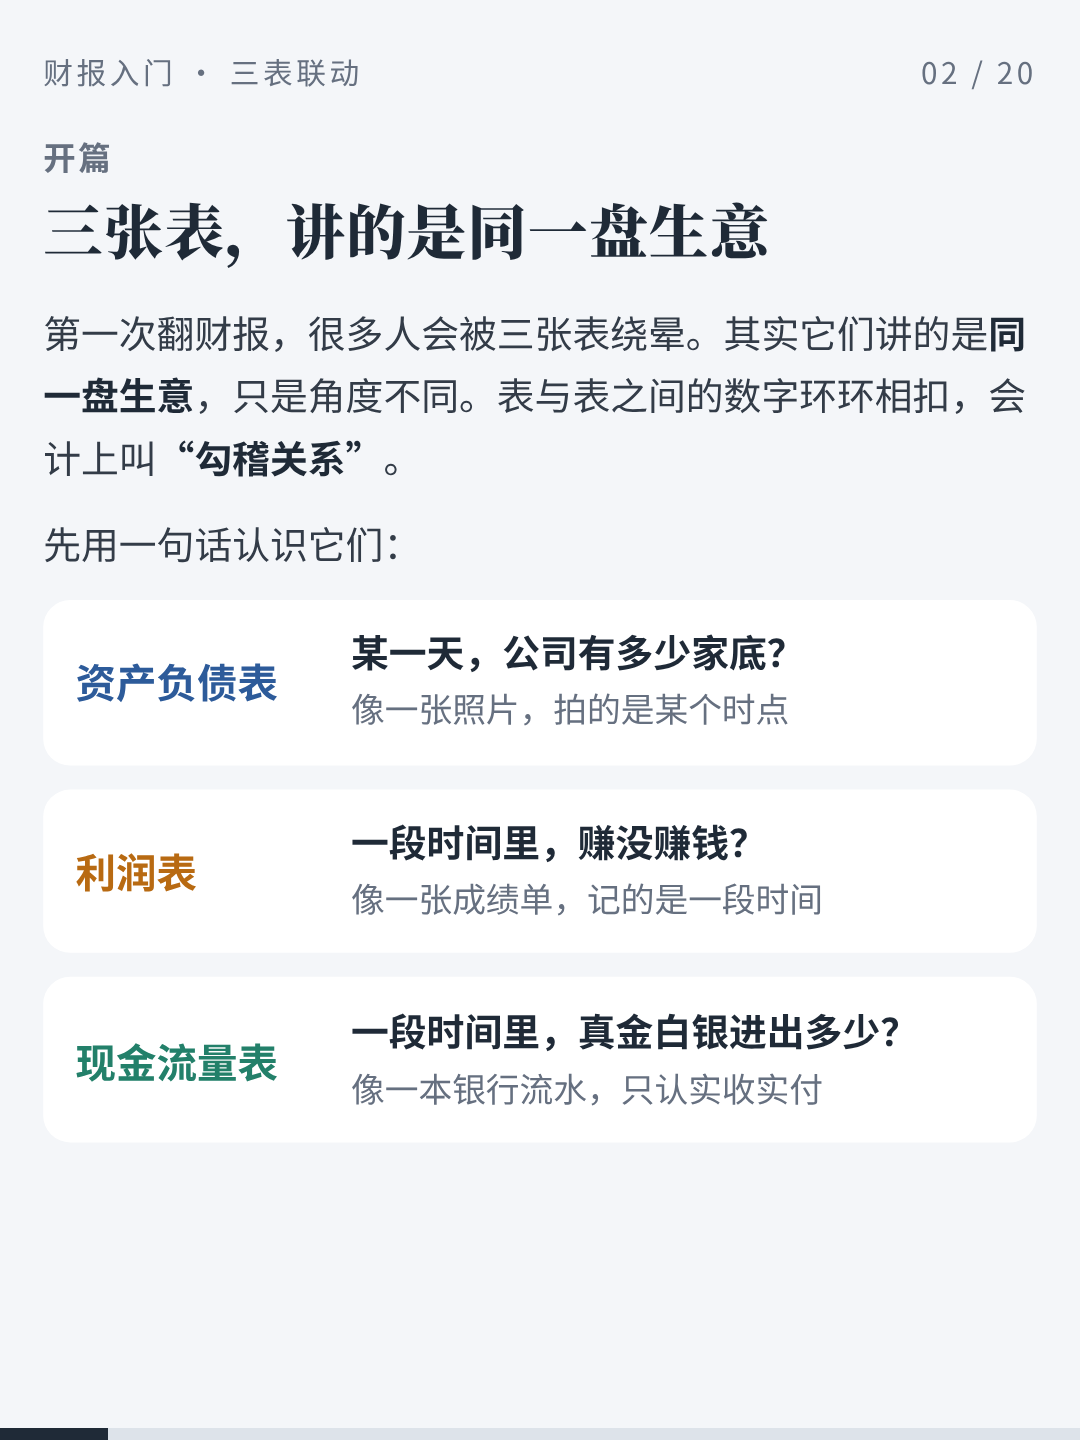
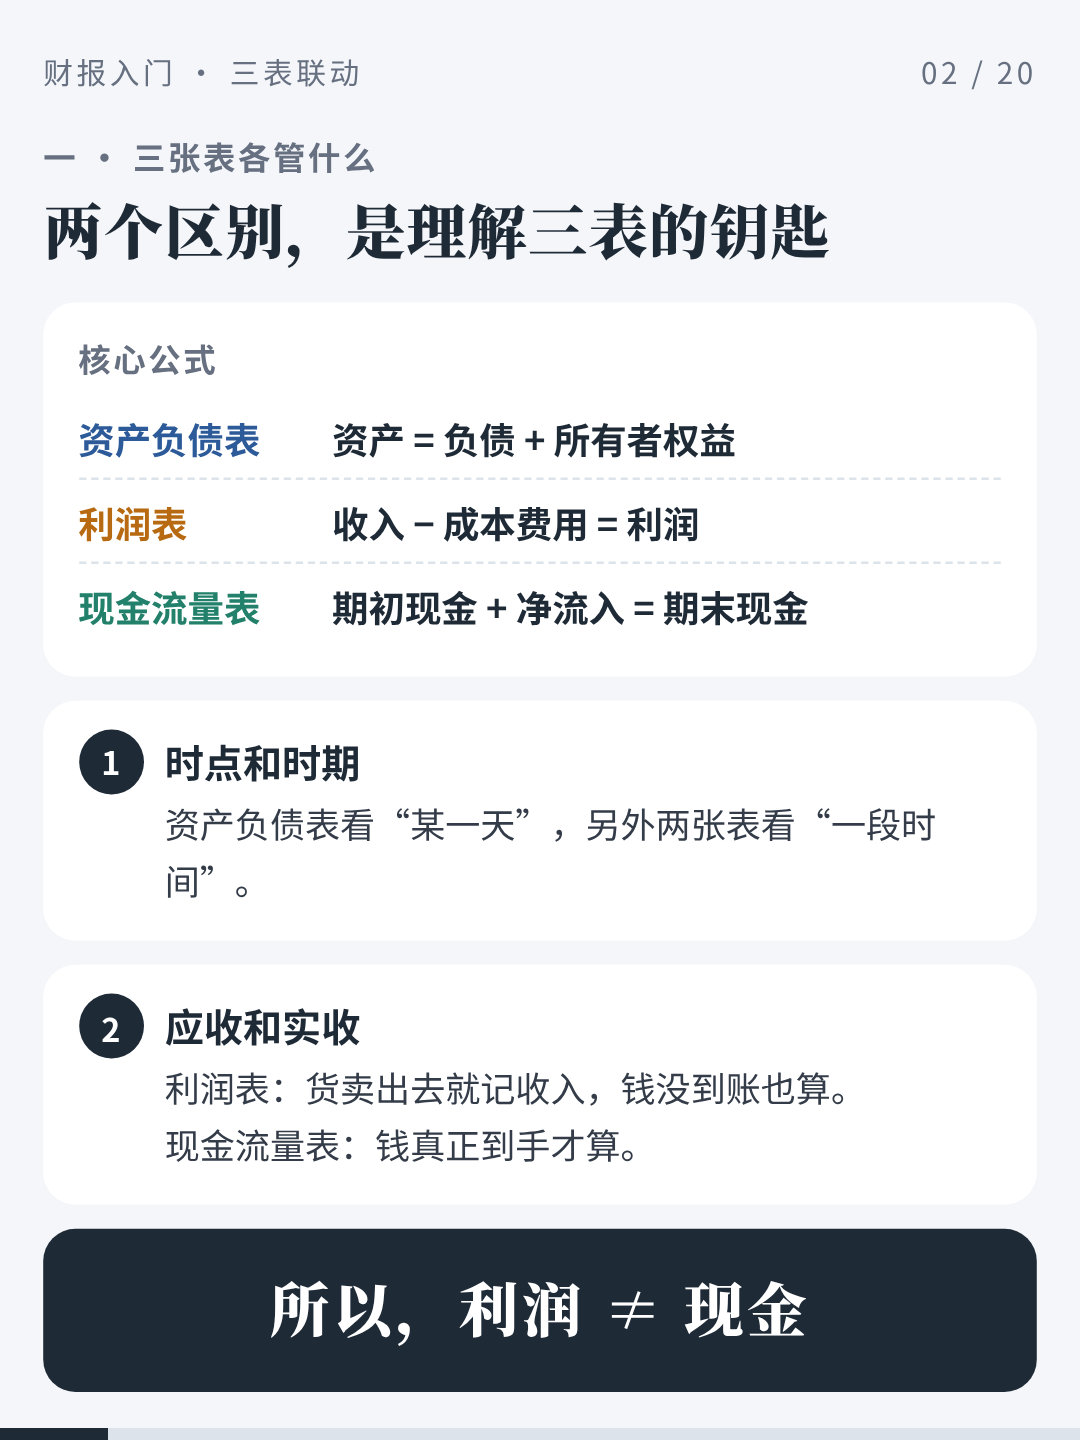
Merge cover into opening page of the image version
Fold the standalone cover into page one as a dark hero band above the
statement introductions, so the first image still works as the feed
cover. Use the freed slot to give the full net-income-to-cash bridge
room of its own and to restore the reading guide for that bridge; the
closing page also regains the 'same story' summary.

Claude-Session: https://claude.ai/code/session_01B7iRdbtxAstcUruayp8mSL

diff --git a/articles/three-statements/source/pages.html b/articles/three-statements/source/pages.html
@@ -56,23 +56,16 @@
   .flow .to { color: var(--muted); font-size: 13px; }
   .formula { background: var(--soft); border-radius: 8px; padding: 8px 10px; font-weight: 700; color: var(--ink); text-align: center; font-size: 14px; }
 
-  /* ---------- cover ---------- */
-  .cover { background: var(--ink); color: #FFFFFF; padding: 22px 22px 18px; }
-  .cover .top { color: #A9B4C2; }
-  .cover .prog { background: #33404F; }
-  .cover .prog i { background: #FFFFFF; }
-  .cover .eyebrow { margin-top: 48px; font-size: 13px; letter-spacing: 0.3em; color: #A9B4C2; }
-  .cover .big { font-family: var(--serif); font-weight: 900; font-size: 66px; line-height: 1.12; letter-spacing: 0.04em; margin: 8px 0 10px; }
-  .cover .sub { font-size: 17px; color: #DCE3EC; }
-  .cover .chips { display: flex; gap: 8px; margin-top: 18px; }
-  .cover .chips .chip { font-size: 13px; padding: 3px 11px; }
-  .cover .teaser { margin-top: auto; border: 1px solid #44505F; border-radius: 12px; padding: 13px 14px; }
-  .cover .teaser .q { font-family: var(--serif); font-weight: 900; font-size: 19px; line-height: 1.45; }
-  .cover .teaser .a { margin-top: 6px; font-size: 12.5px; color: #A9B4C2; }
-  .cover .motto { margin: 14px 0 10px; font-size: 13px; letter-spacing: 0.12em; color: #DCE3EC; }
+  /* ---------- page 1: dark hero band + opening ---------- */
+  .hero { margin: -18px -16px 14px; padding: 18px 18px 16px; background: var(--ink); color: #FFFFFF; }
+  .hero .top { color: #A9B4C2; }
+  .hero .eyebrow { margin-top: 12px; font-size: 12px; letter-spacing: 0.3em; color: #A9B4C2; }
+  .hero .big { font-family: var(--serif); font-weight: 900; font-size: 50px; line-height: 1.12; letter-spacing: 0.04em; margin: 4px 0 6px; }
+  .hero .sub { font-size: 16px; color: #DCE3EC; }
+  .hero .q { margin-top: 12px; padding-top: 10px; border-top: 1px solid #44505F; font-family: var(--serif); font-weight: 900; font-size: 17px; line-height: 1.5; }
 
-  /* ---------- statement rows (p2) ---------- */
-  .srow { display: grid; grid-template-columns: 92px 1fr; gap: 10px; align-items: center; background: var(--paper); border-radius: 10px; padding: 10px 12px; }
+  /* ---------- statement rows (p1) ---------- */
+  .srow { display: grid; grid-template-columns: 92px 1fr; gap: 10px; align-items: center; background: var(--paper); border-radius: 10px; padding: 8px 12px; }
   .srow .nm { font-weight: 700; font-size: 15px; }
   .srow .q { font-weight: 700; color: var(--ink); font-size: 14px; line-height: 1.45; }
   .srow .m { font-size: 12.5px; color: var(--muted); }
@@ -239,8 +232,21 @@
   .use li { font-size: 12.5px; line-height: 1.55; padding-left: 12px; position: relative; }
   .use li::before { content: ""; position: absolute; left: 0; top: 0.62em; width: 5px; height: 5px; border-radius: 50%; background: var(--minus); }
 
+  /* ---------- reading the bridge (p18) ---------- */
+  .read { background: var(--paper); border-radius: 12px; padding: 7px 13px; }
+  .read .h { display: flex; gap: 8px; align-items: center; font-weight: 700; color: var(--ink); font-size: 14.5px; }
+  .read .h .n { width: 22px; height: 22px; border-radius: 50%; background: var(--ink); color: #FFFFFF; font-size: 12px; display: grid; place-items: center; flex: none; }
+  .read .h .v { margin-left: auto; font-variant-numeric: tabular-nums; }
+  .read .h .v.p { color: var(--plus); } .read .h .v.m { color: var(--minus); }
+  .read p { font-size: 13px; margin-top: 2px; line-height: 1.6; }
+  .read.hot { border: 1.5px solid var(--minus); }
+
   /* ---------- summary (p20) ---------- */
-  .tri { background: var(--paper); border-radius: 12px; padding: 10px 8px 6px; }
+  .story { display: grid; grid-template-columns: repeat(3, 1fr); gap: 6px; text-align: center; }
+  .story div { display: grid; gap: 1px; }
+  .story b { font-size: 13px; }
+  .story span { font-size: 12.5px; color: var(--ink); }
+  .tri { background: var(--paper); border-radius: 12px; padding: 6px 8px 2px; }
   .tri svg { display: block; width: 100%; height: auto; }
   .tri svg text { font-family: var(--sans); }
   .mottos { display: grid; grid-template-columns: repeat(3, 1fr); gap: 6px; }
@@ -253,25 +259,16 @@
 </head>
 <body>
 
-<!-- 1 · cover -->
-<section class="page cover" data-sec="">
-  <div class="eyebrow">财报入门</div>
-  <div class="big">三表联动</div>
-  <div class="sub">一家奶茶店，讲透财报勾稽关系</div>
-  <div class="chips"><span class="chip bs">资产负债表</span><span class="chip is">利润表</span><span class="chip cf">现金流量表</span></div>
-  <div class="teaser">
+<!-- 1 · hero + opening (also the feed cover) -->
+<section class="page" data-sec="">
+  <div class="hero">
+    <div class="eyebrow">财报入门</div>
+    <div class="big">三表联动</div>
+    <div class="sub">一家奶茶店，讲透财报勾稽关系</div>
     <div class="q">奶茶店一年赚了 4 万利润，<br>现金为什么只多了 3 万？</div>
-    <div class="a">看懂这个问题，三张表就串起来了。</div>
   </div>
-  <div class="motto">利润进权益 · 现金对货币 · 变动解差异</div>
-</section>
-
-<!-- 2 -->
-<section class="page" data-sec="开篇">
-  <h2>三张表，讲的是同一盘生意</h2>
   <div class="body">
-    <p>第一次翻财报，很多人会被三张表绕晕。其实它们讲的是<b>同一盘生意</b>，只是角度不同。表与表之间的数字环环相扣，会计上叫<b>“勾稽关系”</b>。</p>
-    <p>先用一句话认识它们：</p>
+    <p>三张表讲的是<b>同一盘生意</b>，数字环环相扣，会计上叫<b style="white-space:nowrap">“勾稽关系”</b>。先用一句话认识它们：</p>
     <div class="srow"><div class="nm t-bs">资产负债表</div><div><div class="q">某一天，公司有多少家底？</div><div class="m">像一张照片，拍的是某个时点</div></div></div>
     <div class="srow"><div class="nm t-is">利润表</div><div><div class="q">一段时间里，赚没赚钱？</div><div class="m">像一张成绩单，记的是一段时间</div></div></div>
     <div class="srow"><div class="nm t-cf">现金流量表</div><div><div class="q">一段时间里，真金白银进出多少？</div><div class="m">像一本银行流水，只认实收实付</div></div></div>
@@ -615,16 +612,29 @@
   </div>
 </section>
 
-<!-- 18 -->
+<!-- 17 · full bridge -->
 <section class="page" data-sec="五 · 间接法与现金流之桥">
   <h2>完整版的桥：一家典型公司</h2>
-  <div class="body" style="gap:8px">
+  <div class="body">
+    <p style="font-size:13px">示例数据（非真实公司），按年报补充资料口径 · 万元</p>
     <div class="chart">
+      <div class="key"><span><i style="background:var(--is)"></i>净利润</span><span><i style="background:var(--plus)"></i>加</span><span><i style="background:var(--minus)"></i>减</span><span><i style="background:var(--cf)"></i>经营现金流</span></div>
       <svg id="bridge-full"></svg>
     </div>
-    <div class="card ratio push">
+  </div>
+</section>
+
+<!-- 18 · reading the bridge -->
+<section class="page" data-sec="五 · 间接法与现金流之桥">
+  <h2>这座桥，该怎么读？</h2>
+  <div class="body" style="gap:6px">
+    <div class="read"><div class="h"><span class="n">1</span>不花钱的费用<span class="v p">+430</span></div><p>通常为正。折旧摊销大，多是重资产行业；减值突然变大，要查哪些资产出了问题。</p></div>
+    <div class="read"><div class="h"><span class="n">2</span>不属于经营的损益<span class="v m">−30</span></div><p>把投资、筹资的损益挪走，一般不大。若投资收益占利润大头，说明利润不靠主业。</p></div>
+    <div class="read"><div class="h"><span class="n">3</span>递延所得税<span class="v m">−20</span></div><p>通常金额很小，入门时可以先略过。</p></div>
+    <div class="read hot"><div class="h"><span class="n">4</span>营运资本变动<span class="v m">−530</span></div><p><b>最值得盯。</b>应收和存货吃掉 740，多欠供应商 210 补回一部分。年年如此，说明增长靠赊销和备货撑着。</p></div>
+    <div class="card ratio push" style="padding:8px 13px">
       <div class="big">0.85</div>
-      <p>营运资本吃掉 530。<b>净现比</b> = 850 ÷ 1,000<br><span class="muted">示例数据，非真实公司 · 单位：万元</span></p>
+      <p><b>净现比</b> = 850 ÷ 1,000。长期低于 1，要追问利润为什么没变成现金。</p>
     </div>
   </div>
 </section>
@@ -649,14 +659,19 @@
 <!-- 20 -->
 <section class="page" data-sec="写在最后">
   <h2>一张图记住三表联动</h2>
-  <div class="body">
+  <div class="body" style="gap:7px">
     <div class="tri"><svg id="tri" viewBox="0 0 352 170"></svg></div>
-    <div class="card mottos">
+    <div class="card mottos" style="padding:8px 10px">
       <div><span class="n">1</span><span>利润进权益</span></div>
       <div><span class="n">2</span><span>现金对货币</span></div>
       <div><span class="n">3</span><span>变动解差异</span></div>
     </div>
-    <div class="dark push">
+    <div class="card story" style="padding:8px 10px">
+      <div><b class="t-bs">资产负债表</b><span>家底有多厚</span></div>
+      <div><b class="t-is">利润表</b><span>本事有多大</span></div>
+      <div><b class="t-cf">现金流量表</b><span>日子紧不紧</span></div>
+    </div>
+    <div class="dark push" style="padding:10px 14px">
       <p class="quote" style="color:#FFFFFF">利润是观点，现金是事实。</p>
       <p style="font-size:12.5px;text-align:center;color:#DCE3EC;margin-top:4px">下次翻财报，先拿这三条线核一核。</p>
     </div>
@@ -674,7 +689,8 @@
     top.className = 'top';
     top.innerHTML = '<span>财报入门 · 三表联动</span><span class="num">' + n + ' / ' + total + '</span>';
     var sec = pg.getAttribute('data-sec');
-    pg.insertBefore(top, pg.firstChild);
+    var host = pg.querySelector('.hero') || pg;
+    host.insertBefore(top, host.firstChild);
     if (sec) {
       var s = document.createElement('div');
       s.className = 'sec';
@@ -754,7 +770,7 @@ waterfall(document.getElementById('bridge-full'), [
   { type: 'delta', label: '经营性应付增加', value: 210 },
   { type: 'group', label: '' },
   { type: 'total', label: '经营活动现金流', value: 850, color: '--cf' }
-], { width: 344, min: 0, max: 1600, ticks: [0, 400, 800, 1200, 1600], labelW: 118, rowH: 18, barH: 12, font: 12, groupH: 17 });
+], { width: 344, min: 0, max: 1600, ticks: [0, 400, 800, 1200, 1600], labelW: 118, rowH: 20, barH: 13, font: 12.5, groupH: 18 });
 
 /* summary triangle: three statements and the three linkage lines */
 (function () {
